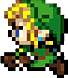
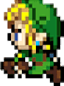
Ajout des animations LEFT & RIGHT

diff --git a/src/main/java/com/example/sae_zeldalike/Vue/VueLink.java b/src/main/java/com/example/sae_zeldalike/Vue/VueLink.java
@@ -12,6 +12,8 @@ import javafx.scene.input.KeyEvent;
 import javafx.scene.layout.BorderPane;
 import javafx.scene.layout.Pane;
 import javafx.scene.layout.StackPane;
+import javafx.scene.paint.Color;
+import javafx.scene.shape.Circle;
 import javafx.scene.shape.Rectangle;
 
 
@@ -22,7 +24,7 @@ public class VueLink {
     private int numeroImagePersonnage;
     private StringProperty direction;
     private Clavier clavier;
-    private Rectangle rectangle;
+    private Circle ombre;
 
     public VueLink(Pane pane, Link personnage ) {
 
@@ -37,9 +39,10 @@ public class VueLink {
         creerPerso(pane);
 
 
+
     }
 
-    public void creerPerso(Pane pane){
+    private void creerPerso(Pane pane){
         this.numeroImagePersonnage=1;
         this.spritePersonnage = new ImageView("file:src/main/resources/com/example/sae_zeldalike/Personnage/Link/DOWN_R.png");
         this.spritePersonnage.setId("#"+personnage.getId());
@@ -47,10 +50,27 @@ public class VueLink {
         this.spritePersonnage.setFitWidth(32);
         this.spritePersonnage.setTranslateX(personnage.getPositionX());
         this.spritePersonnage.setTranslateY(personnage.getPositionY());
-        pane.getChildren().add(this.spritePersonnage);
+
 
         spritePersonnage.translateXProperty().bind(personnage.getPositionXProperty());
         spritePersonnage.translateYProperty().bind(personnage.getPositionYProperty());
+
+        creerOmbre(pane);
+        pane.getChildren().add(this.spritePersonnage);
+
+
+    }
+    private void creerOmbre(Pane pane) {
+        ombre = new Circle((personnage.getLargeur()/2.5));
+        ombre.setFill(Color.GREY);
+        ombre.setId("O"+personnage.getId());
+
+
+
+        pane.getChildren().add(this.ombre);
+
+        ombre.centerXProperty().bind(spritePersonnage.translateXProperty().add(personnage.getLargeur()/2));
+        ombre.centerYProperty().bind(spritePersonnage.translateYProperty().add(personnage.getLongueur()));
     }
 
 
@@ -58,7 +78,7 @@ public class VueLink {
     public void animationPersonnage() {
         switch (getDirection()){
             case "UP"-> {
-                if (numeroImagePersonnage==1){
+                if (numeroImagePersonnage==1 || numeroImagePersonnage!=2){
                     this.spritePersonnage.setImage(new Image("file:src/main/resources/com/example/sae_zeldalike/Personnage/Link/UP_R.png"));
                     setNumeroImagePersonnage(2);
                 } else if (numeroImagePersonnage==2) {
@@ -67,7 +87,7 @@ public class VueLink {
                 }
             }
             case "DOWN"-> {
-                if (numeroImagePersonnage==1) {
+                if (numeroImagePersonnage==1|| numeroImagePersonnage!=2) {
                     this.spritePersonnage.setImage(new Image("file:src/main/resources/com/example/sae_zeldalike/Personnage/Link/DOWN_R.png"));
                     setNumeroImagePersonnage(2);
                 } else if (numeroImagePersonnage==2) {
@@ -77,19 +97,61 @@ public class VueLink {
             }
             case "LEFT"->{
                 if (numeroImagePersonnage==1) {
-                    this.spritePersonnage.setImage(new Image("file:src/main/resources/com/example/sae_zeldalike/Personnage/Link/LEFT_R.png"));
+                    this.spritePersonnage.setImage(new Image("file:src/main/resources/com/example/sae_zeldalike/Personnage/Link/LEFT_1.png"));
                     setNumeroImagePersonnage(2);
-                } else if (numeroImagePersonnage==2) {
-                    this.spritePersonnage.setImage(new Image("file:src/main/resources/com/example/sae_zeldalike/Personnage/Link/LEFT_L.png"));
+                }else if (numeroImagePersonnage==2) {
+                    this.spritePersonnage.setImage(new Image("file:src/main/resources/com/example/sae_zeldalike/Personnage/Link/LEFT_2.png"));
+                    setNumeroImagePersonnage(3);
+                }else if (numeroImagePersonnage==3) {
+                    this.spritePersonnage.setImage(new Image("file:src/main/resources/com/example/sae_zeldalike/Personnage/Link/LEFT_3.png"));
+                    setNumeroImagePersonnage(4);
+                }else if (numeroImagePersonnage==4) {
+                    this.spritePersonnage.setImage(new Image("file:src/main/resources/com/example/sae_zeldalike/Personnage/Link/LEFT_4.png"));
+                    setNumeroImagePersonnage(5);
+                }else if (numeroImagePersonnage==5) {
+                    this.spritePersonnage.setImage(new Image("file:src/main/resources/com/example/sae_zeldalike/Personnage/Link/LEFT_5.png"));
+                    setNumeroImagePersonnage(6);
+                }else if (numeroImagePersonnage==6) {
+                    this.spritePersonnage.setImage(new Image("file:src/main/resources/com/example/sae_zeldalike/Personnage/Link/LEFT_6.png"));
+                    setNumeroImagePersonnage(7);
+                }else if (numeroImagePersonnage==7) {
+                    this.spritePersonnage.setImage(new Image("file:src/main/resources/com/example/sae_zeldalike/Personnage/Link/LEFT_7.png"));
+                    setNumeroImagePersonnage(8);
+                }else if (numeroImagePersonnage==8) {
+                    this.spritePersonnage.setImage(new Image("file:src/main/resources/com/example/sae_zeldalike/Personnage/Link/LEFT_8.png"));
+                    setNumeroImagePersonnage(9);
+                }else if (numeroImagePersonnage==9) {
+                    this.spritePersonnage.setImage(new Image("file:src/main/resources/com/example/sae_zeldalike/Personnage/Link/LEFT_9.png"));
                     setNumeroImagePersonnage(1);
                 }
             }
             case "RIGHT"->{
                 if (numeroImagePersonnage==1) {
-                    this.spritePersonnage.setImage(new Image("file:src/main/resources/com/example/sae_zeldalike/Personnage/Link/RIGHT_R.png"));
+                    this.spritePersonnage.setImage(new Image("file:src/main/resources/com/example/sae_zeldalike/Personnage/Link/RIGHT_1.png"));
                     setNumeroImagePersonnage(2);
-                } else if (numeroImagePersonnage==2) {
-                    spritePersonnage.setImage(new Image("file:src/main/resources/com/example/sae_zeldalike/Personnage/Link/RIGHT_L.png"));
+                }else if (numeroImagePersonnage==2) {
+                    this.spritePersonnage.setImage(new Image("file:src/main/resources/com/example/sae_zeldalike/Personnage/Link/RIGHT_2.png"));
+                    setNumeroImagePersonnage(3);
+                }else if (numeroImagePersonnage==3) {
+                    this.spritePersonnage.setImage(new Image("file:src/main/resources/com/example/sae_zeldalike/Personnage/Link/RIGHT_3.png"));
+                    setNumeroImagePersonnage(4);
+                }else if (numeroImagePersonnage==4) {
+                    this.spritePersonnage.setImage(new Image("file:src/main/resources/com/example/sae_zeldalike/Personnage/Link/RIGHT_4.png"));
+                    setNumeroImagePersonnage(5);
+                }else if (numeroImagePersonnage==5) {
+                    this.spritePersonnage.setImage(new Image("file:src/main/resources/com/example/sae_zeldalike/Personnage/Link/RIGHT_5.png"));
+                    setNumeroImagePersonnage(6);
+                }else if (numeroImagePersonnage==6) {
+                    this.spritePersonnage.setImage(new Image("file:src/main/resources/com/example/sae_zeldalike/Personnage/Link/RIGHT_6.png"));
+                    setNumeroImagePersonnage(7);
+                }else if (numeroImagePersonnage==7) {
+                    this.spritePersonnage.setImage(new Image("file:src/main/resources/com/example/sae_zeldalike/Personnage/Link/RIGHT_7.png"));
+                    setNumeroImagePersonnage(8);
+                }else if (numeroImagePersonnage==8) {
+                    this.spritePersonnage.setImage(new Image("file:src/main/resources/com/example/sae_zeldalike/Personnage/Link/RIGHT_8.png"));
+                    setNumeroImagePersonnage(9);
+                }else if (numeroImagePersonnage==9) {
+                    this.spritePersonnage.setImage(new Image("file:src/main/resources/com/example/sae_zeldalike/Personnage/Link/RIGHT_9.png"));
                     setNumeroImagePersonnage(1);
                 }
             }
@@ -105,7 +167,6 @@ public class VueLink {
             case "Inactif_RIGHT"->{
                 this.spritePersonnage.setImage(new Image("file:src/main/resources/com/example/sae_zeldalike/Personnage/Link/Inactif_RIGHT.png"));
             }
-
         }
     }
 

diff --git a/src/main/java/com/example/sae_zeldalike/modele/Personnage/Personnage.java b/src/main/java/com/example/sae_zeldalike/modele/Personnage/Personnage.java
@@ -37,7 +37,7 @@ public abstract class Personnage {
         this.positionY = new SimpleIntegerProperty(positionY);
         this.vitesseDeplacement = new SimpleIntegerProperty(vitesseDeplacement);
         this.environnement = environnement;
-        this.direction = new SimpleStringProperty("DOWN");
+        this.direction = new SimpleStringProperty("Inactif_DOWN");
         this.longueur=longueur;
         this.largeur=largeur;
         this.pointViePercent.bind(getPointVieProperty().divide(100.0));
@@ -58,8 +58,8 @@ public abstract class Personnage {
         this.vitesseDeplacement = new SimpleIntegerProperty(vitesseDeplacement);
     }**/
 
-    private int getLargeur(){return largeur;}
-    private int getLongueur(){return longueur;}
+    public int getLargeur(){return largeur;}
+    public int getLongueur(){return longueur;}
 
     public StringProperty getDirectionProperty() {
         return direction;

diff --git a/src/main/java/com/example/sae_zeldalike/Controlleur/Controleur.java b/src/main/java/com/example/sae_zeldalike/Controlleur/Controleur.java
@@ -157,7 +157,7 @@ public class Controleur implements Initializable {
                         vueLink.animationPersonnage();
                     }
                     if (temps % 3 == 0) {
-//                        this.pane.requestFocus();
+                        this.pane.requestFocus();
                         for (VueItem monItem : vueItems){
                             monItem.animationItem();
                         }
